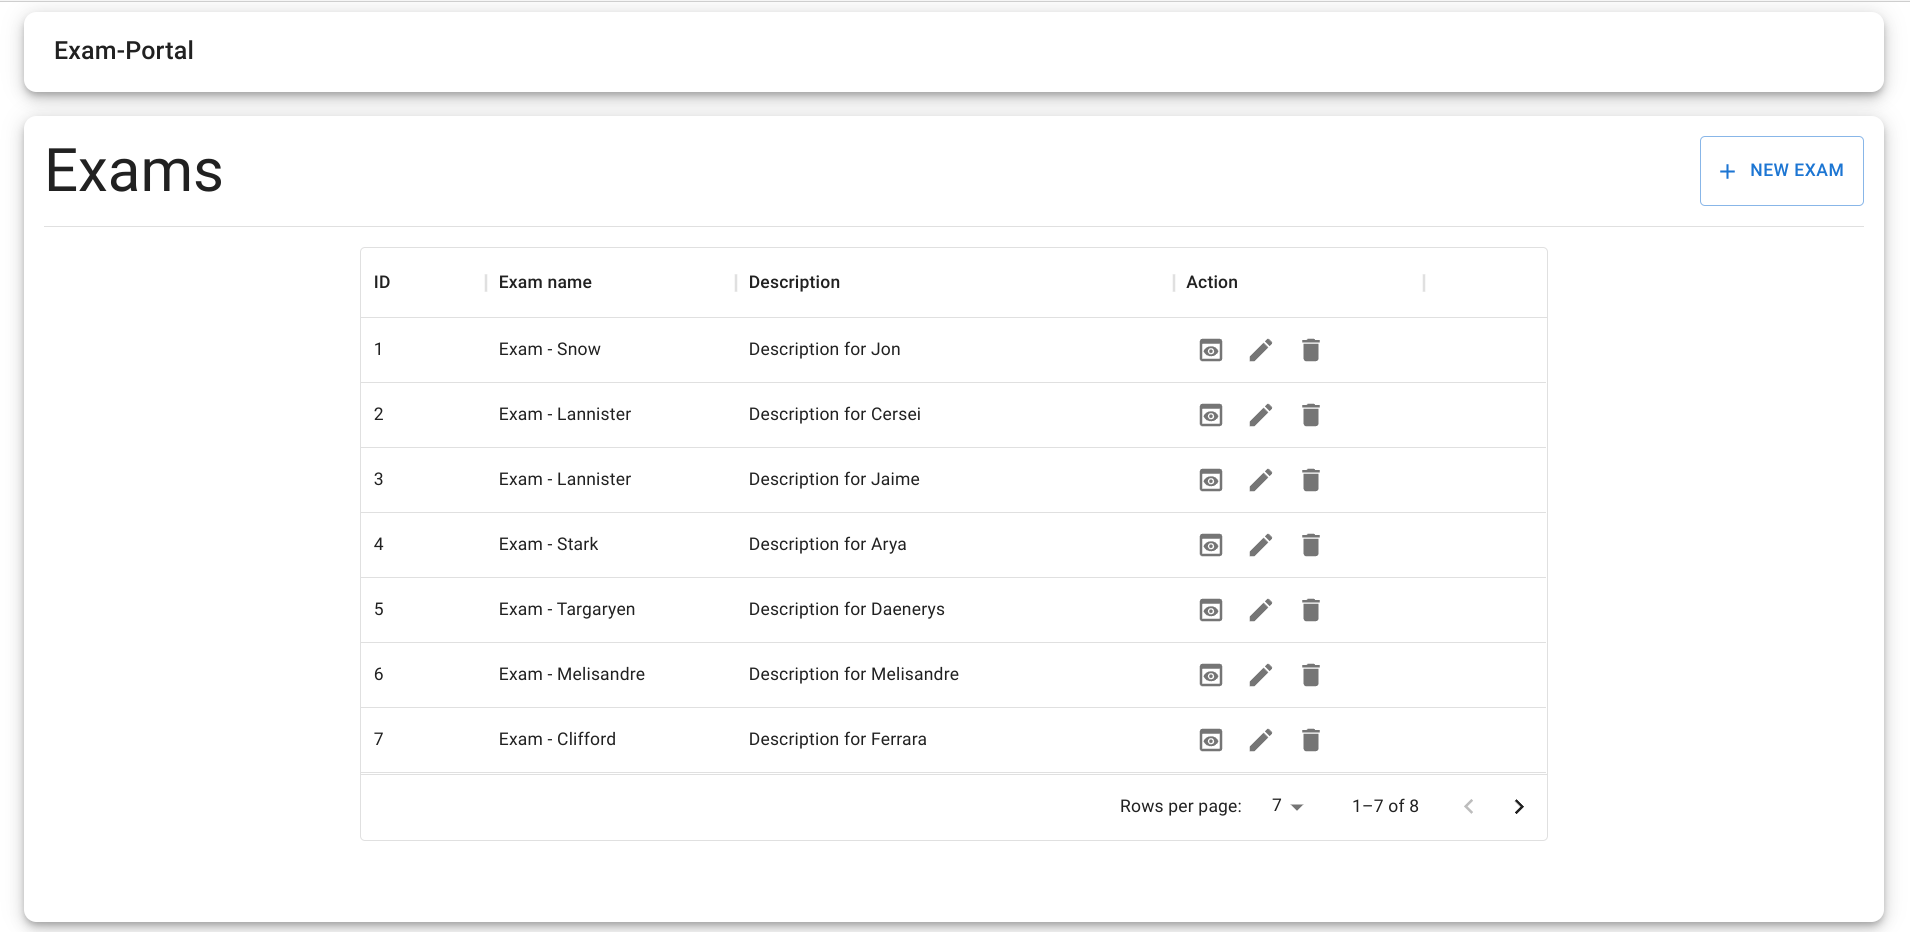
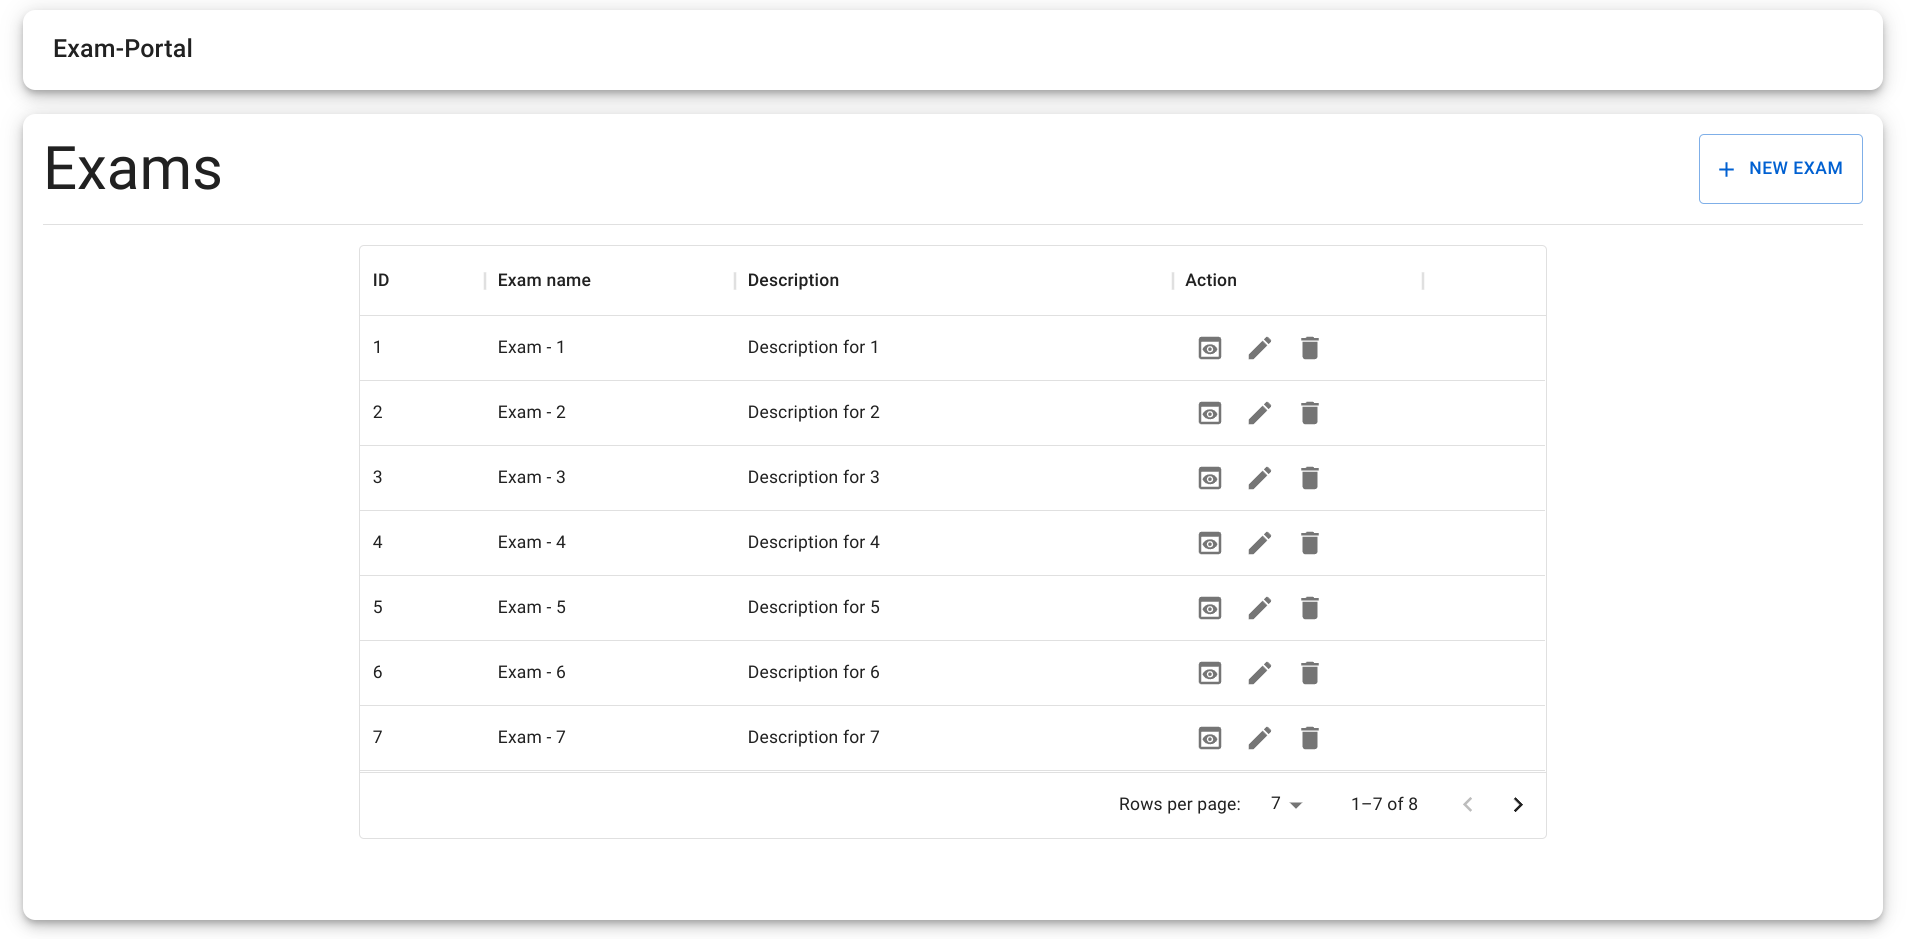
README added

diff --git a/src/data/dummyData.js b/src/data/dummyData.js
@@ -1,13 +1,13 @@
 export const examList = 
 [
-    { "id": 1, "examName": "Exam - Snow", "description": "Description for Jon" },
-    { "id": 2, "examName": "Exam - Lannister", "description": "Description for Cersei" },
-    { "id": 3, "examName": "Exam - Lannister", "description": "Description for Jaime" },
-    { "id": 4, "examName": "Exam - Stark", "description": "Description for Arya" },
-    { "id": 5, "examName": "Exam - Targaryen", "description": "Description for Daenerys" },
-    { "id": 6, "examName": "Exam - Melisandre", "description": "Description for Melisandre" },
-    { "id": 7, "examName": "Exam - Clifford", "description": "Description for Ferrara" },
-    { "id": 8, "examName": "Exam - Frances", "description": "Description for Rossini" },
+    { "id": 1, "examName": "Exam - 1", "description": "Description for 1" },
+    { "id": 2, "examName": "Exam - 2", "description": "Description for 2" },
+    { "id": 3, "examName": "Exam - 3", "description": "Description for 3" },
+    { "id": 4, "examName": "Exam - 4", "description": "Description for 4" },
+    { "id": 5, "examName": "Exam - 5", "description": "Description for 5" },
+    { "id": 6, "examName": "Exam - 6", "description": "Description for 6" },
+    { "id": 7, "examName": "Exam - 7", "description": "Description for 7" },
+    { "id": 8, "examName": "Exam - 8", "description": "Description for 8" },
 ]
 
 export const moduleList = 
